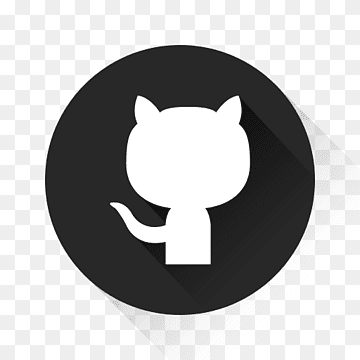
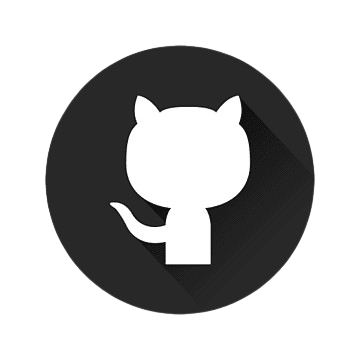
I hate css

diff --git a/index.html b/index.html
@@ -41,13 +41,10 @@
                 <img src="img/github-icon.png" alt="GitHub">
             </a>
             <a href="https://twitter.com/yourprofile" target="_blank">
-                <img src="img/x-icon.jpg" alt="X">
+                <img src="img/x-icon.png" alt="X">
             </a>
         </div>
     </main>
-    <footer>
-        <p>&copy; 2024 SOFLAKY. All Rights Reserved.</p>
-    </footer>
     <script src="js/scripts.js"></script>
 </body>
 </html>

diff --git a/about.html b/about.html
@@ -25,8 +25,5 @@
             <p>I'm a Computer Science Student, CTF Player & I'm very passionate and dedicated to my work and studies. My expertise includes web development, bug bounties, and more.</p>
         </section>
     </main>
-    <footer>
-        <p>&copy; 2024 SOFLAKY. All Rights Reserved.</p>
-    </footer>
 </body>
 </html>

diff --git a/css/styles.css b/css/styles.css
@@ -125,10 +125,13 @@ nav ul li a:hover {
 
 /* Footer Styles */
 .social-icons img {
-    width: 30px;
-    height: 30px;
-    align-items: center;
+    display: block;
+  margin-left: auto;
+  margin-right: 0;
+  width: 4%;
+  ;
 }
+
 /* Content Section Styles */
 .projects-section,
 .writeups-section,

diff --git a/writeups.html b/writeups.html
@@ -25,8 +25,5 @@
             <p>Coming Soon...</p>
         </section>
     </main>
-    <footer>
-        <p>&copy; 2024 SOFLAKY. All Rights Reserved.</p>
-    </footer>
 </body>
 </html>
